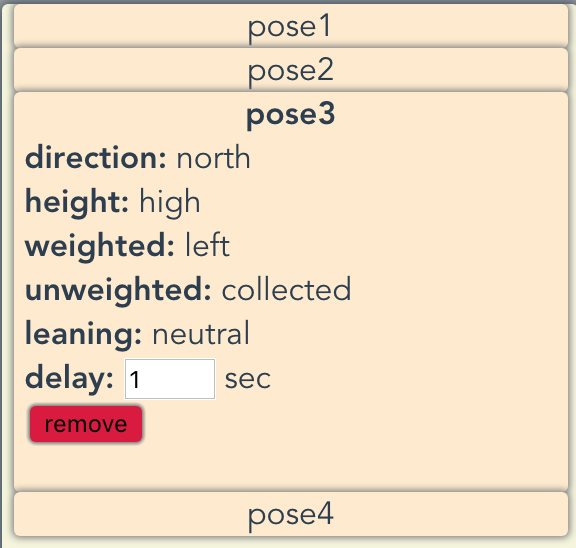
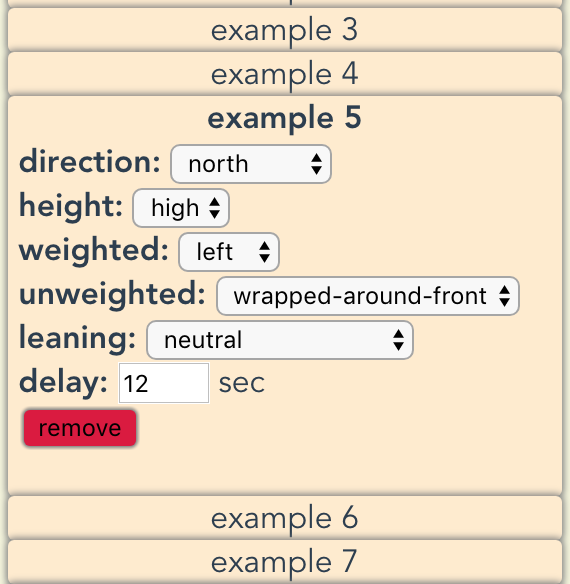
Update readme about card editing.

diff --git a/README.md b/README.md
@@ -80,6 +80,10 @@ This web app contains three parts. A left-side panel used to define a sequence o
 
   You can arrange their order by drag and drop. You can also delete cards by expend one and click the delete button.
 
+  When you expend one card, you can also edit it. When you changed anything in the card, a submit button and a cancel button will appear. Click submit to push all the changes or cancel to discard the changes. If you click on another card, the changes to the current card will persist.
+
+  ![cards edit](images/cards-edit.png)
+
 ## Right side screen
 
   The screen will render a stick-figure. Simply use mouse to navigate and zoom.
